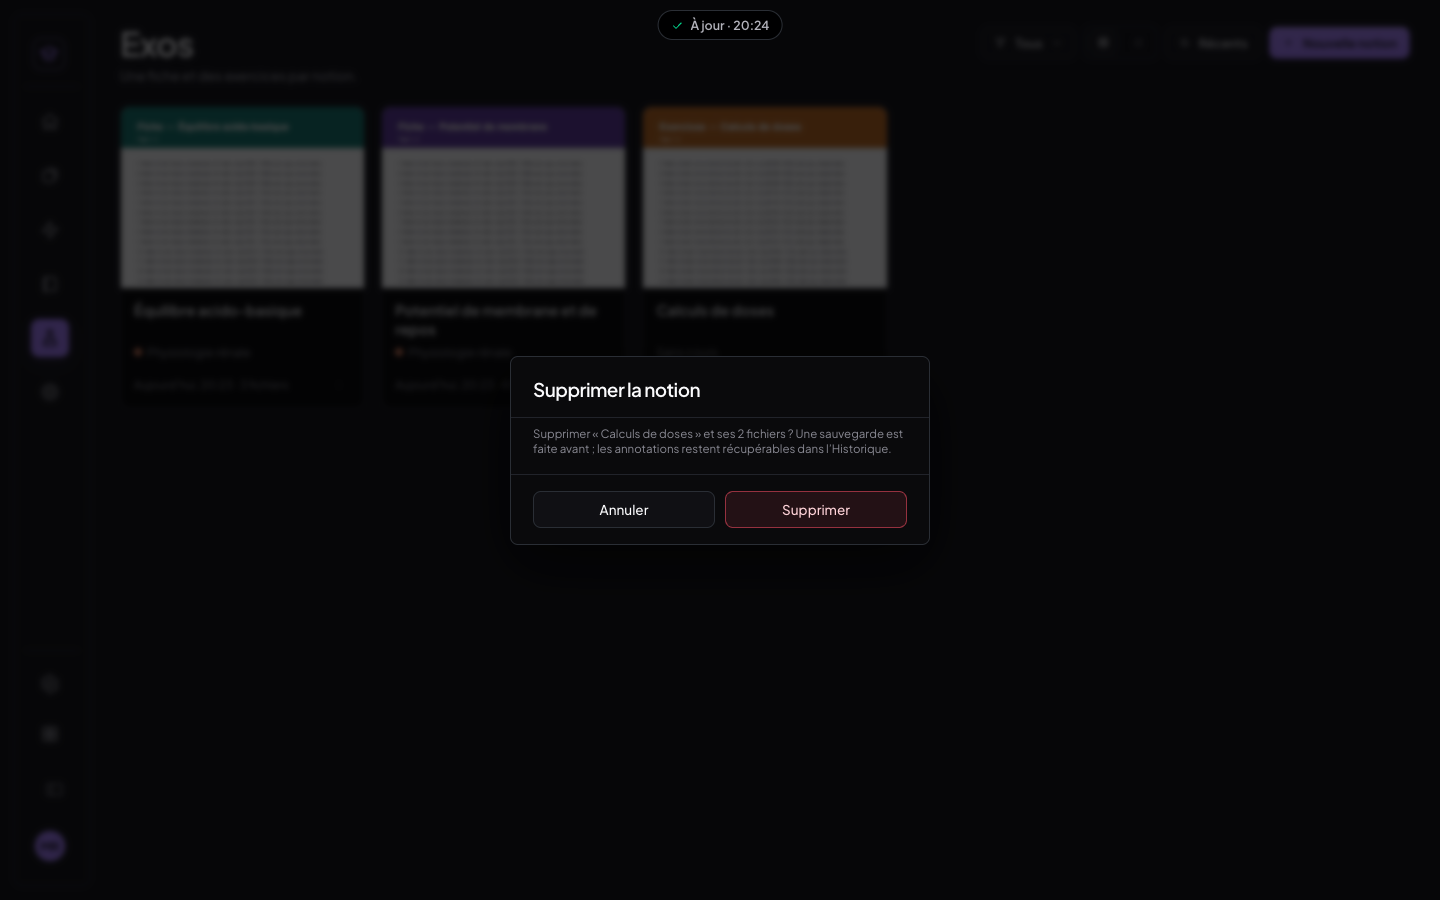
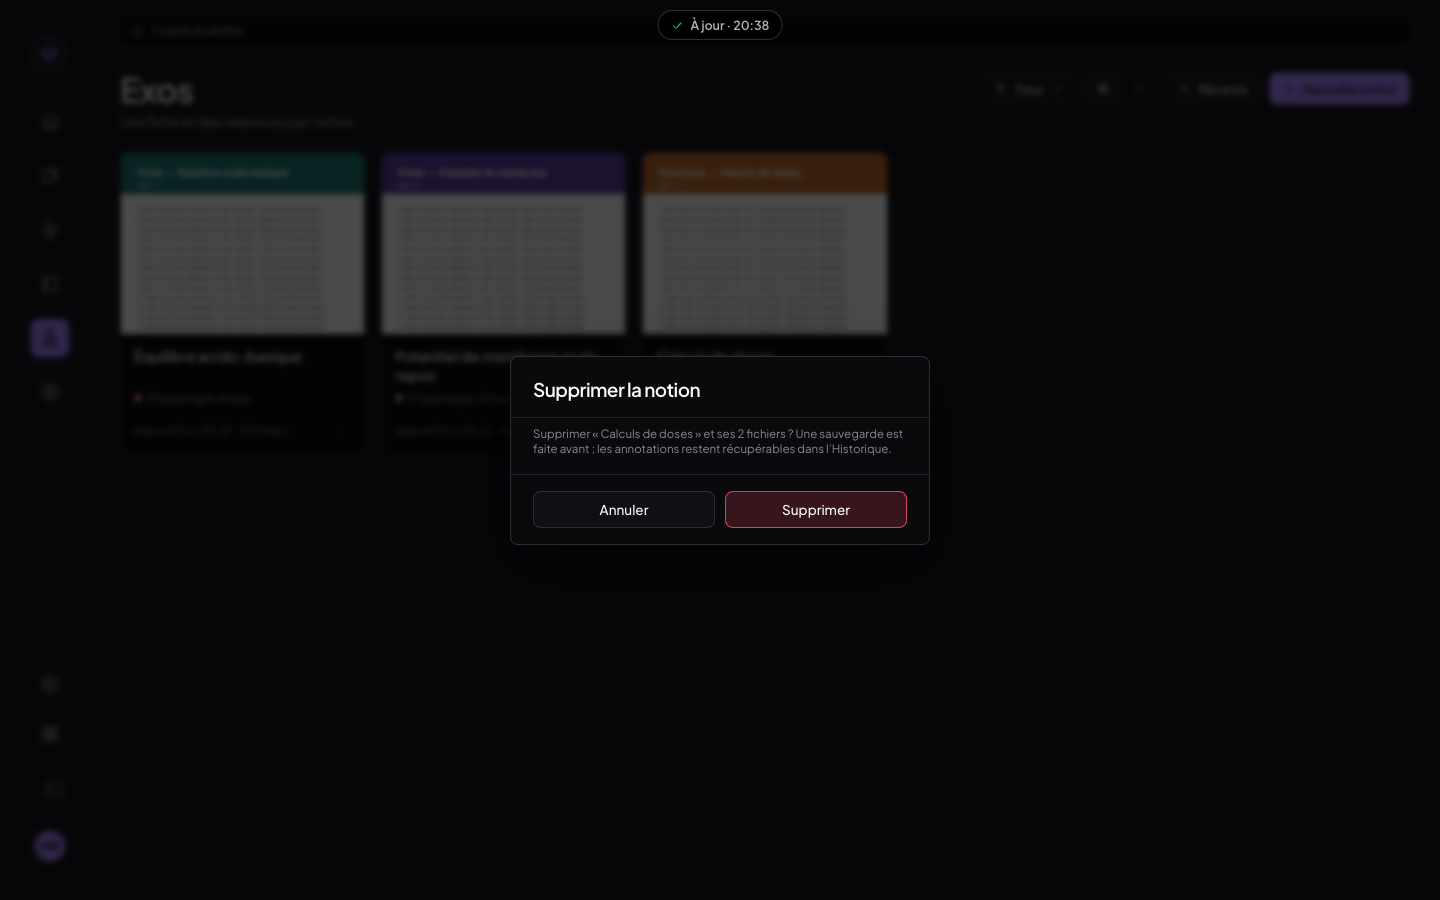
docs(medrevise): section Exos — compte rendu complété (tests, isolation, captures 3 appareils), passation

diff --git a/progression.md b/progression.md
@@ -1,28 +1,30 @@
 <!-- PASSATION:DEBUT -->
 # 🔁 Passation – My Org (MedRevise)
-_Mise à jour le 2026-11-24 (soir)_
+_Mise à jour le 2026-11-25 (soir)_
 
 ## 🎯 Objectif
 SPA Vite + React (hub + MealWeek + MedRevise), Vercel `my-org` au push sur `main`.
-/goal du 24/11 : suivi automatique des diapos pendant une transcription d'onglet (Teams) + répartition après coup — LIVRÉ.
+/goal du 25/11 : section « Exos » (notions = fiche PDF + exercices HTML/PDF) — LIVRÉ, testé, poussé.
 
 ## ✅ Fait (vérifié)
-- `src/medrevise/transcription/diapos/` : moteur unique (moteur.js), Web Worker (images de l'onglet, zone, scores, rendu des pages pdf.js sur OffscreenCanvas), pilote (suivi.js), pages du PDF (pagesCours.js), « Relier aux diapos automatiquement » (repartition.js), UI (SuiviDiapos.jsx). Piste vidéo du même partage gardée (audio.js), page des lignes = diapo reconnue (engine.js), Historique porte la session (historiqueDoc.js).
-- Banc Chrome `scripts/tests-suivi-diapos/` (vrai partage d'onglet, Chrome fenêtré hors écran, MUET) : passages 100 %, lignes 98,4 %, 0 mauvais changement même titre, délai moyen 2,66 s, aucun mot perdu ; après coup 100 % ; non-régression verte ; MealWeek identique au pixel. Compte rendu : `docs/compte-rendu-suivi-auto-diapos.md`.
+- Section Exos : `src/medrevise/exos/` (notions.js, apercus.js, EcranExos.jsx, LecteurHtml.jsx), `src/styles/exos.css` ; entrée barre latérale + carte d'accueil téléphone ; store synchronisé `exo_notion` (ajout seul, aucune migration) ; PDF dans le PdfReader (option `coursCartes`), HTML dans une iframe sandbox « allow-scripts allow-forms ».
+- Banc `scripts/tests-section-exos/tout.sh` : ordinateur, iPad, téléphone, 2 appareils, hors ligne, sécurité, non-régression, MealWeek identique → tout vert. Compte rendu `docs/compte-rendu-section-exos.md`.
+- (24/11) suivi automatique des diapos livré (docs/compte-rendu-suivi-auto-diapos.md).
 
 ## ➡ Prochaines étapes
-1. Essai en vrai sur un cours Teams dans Chrome + relancer le banc avec le vrai PDF d'histologie (`PDF_HISTO=~/Downloads/… node scripts/tests-suivi-diapos/t-suivi.mjs`) — aucun PDF d'histologie n'était dans ~/Downloads.
-2. (Toujours en attente) essais masques IA iPad/Mac, PNG texte coloré iPhone ; zoom molette SchemaEditor ; CLI Vercel + migration 20261024.
+1. Essayer la section Exos en vrai (vrais fichiers d'exos HTML) sur Mac, iPad, iPhone.
+2. Essai réel Teams + banc diapos avec le vrai PDF d'histologie (`PDF_HISTO=~/Downloads/… node scripts/tests-suivi-diapos/t-suivi.mjs`) — attendre le PDF de Yoann.
+3. (En attente) masques IA iPad/Mac, PNG texte coloré iPhone, zoom molette SchemaEditor, CLI Vercel + migration 20261024.
 
 ## 🧭 Décisions prises (ne pas rediscuter)
-- Un seul moteur (direct et après coup), OCR de l'app seulement si hésitation, images des changements LOCALES (store meta), aucune migration.
-- Seuils : SEUIL 0,50 · MARGE 0,03 · NON_RECONNU 0,50 (moteur.js#PARAMS).
+- Exos : annotations d'un fichier dans l'espace `exo:<id du fichier>` ; fichier retiré/remplacé = gardé dans `fichiersRetires` (bouton Remettre), jamais d'annotation effacée ; boîte → flashcard seulement si la notion a un cours.
+- Diapos : un seul moteur ; seuils SEUIL 0,50 · MARGE 0,03 · NON_RECONNU 0,50.
 
 ## ⚠ Pièges et préférences
-- JAMAIS de son pendant un banc (Yoann en cours) : faux Teams à −50 dB + suppressLocalAudioPlayback ; `--mute-audio` coupe AUSSI la capture.
-- Ne pas modifier src/ pendant qu'un banc tourne (Vite recharge la page et coupe la session).
-- « sync auto » commite ET pousse tout seul.
-- Français, commits conventionnels, jamais de force push.
+- JAMAIS de son pendant un banc (Chrome --mute-audio). Ne pas modifier src/ pendant qu'un banc tourne.
+- « sync auto » commite ET pousse tout seul (il a emporté le code Exos dans 00e35ac).
+- Le lecteur HTML est volontairement isolé : ne jamais ajouter allow-same-origin.
+- Français, commits conventionnels, jamais de force push ; ne jamais toucher MealWeek ni src/shared.
 <!-- PASSATION:FIN -->
 
 ## Historique des clôtures

diff --git a/docs/compte-rendu-section-exos.md b/docs/compte-rendu-section-exos.md
@@ -96,7 +96,18 @@ C'est le mode **« Exercices »** du panneau latéral du lecteur d'un cours (lib
 Feynman — avec Ajouter / Importer / Exporter. Aucune ligne n'en a été modifiée ; `t-nonreg.mjs` vérifie qu'il s'affiche comme avant.
 
 ## 7. Tests (banc `scripts/tests-section-exos/`, Chrome headless muet, faux Supabase)
-RESULTATS_BANC
+`./tout.sh` rejoue tout (25/11, **tout vert, 0 erreur console**) :
+
+| Script | Appareils | Ce qui est vérifié | Résultat |
+|---|---|---|---|
+| `t-creation.mjs` | ordinateur, iPad | entrée « Exos » (icône + infobulle), en-tête (titre, filtre, grille/liste, tri, Nouvelle notion), nom obligatoire, 3 notions (cours / sans cours / sans fiche), stockage, noms lisibles, aperçus (fiche, sinon 1ᵉʳ PDF d'exos), cartes de même largeur, pastille, date, menu ⋮, tri, filtre, liste, vue notion, retour | ✅ |
+| `t-lecteurs.mjs` | ordinateur, iPad, téléphone | fiche PDF dans le PdfReader (mêmes outils), boîte écrite → enregistrée, Historique, panneau du cours rattaché, fermer / rouvrir → annotation là ; QCM HTML (boutons, champ, correction JS, localStorage/sessionStorage en mémoire, alert en bandeau), rien d'enregistré, mémoire perdue à la fermeture ; fichier piégé bloqué, app intacte | ✅ |
+| `t-modification.mjs` | ordinateur, iPad | renommer, changer de cours, ajouter 2 exos, réordonner, renommer un exo ; exo annoté (2 boîtes) retiré → confirmation « 2 annotations », putBackup, Fichiers retirés, annotations intactes, version Historique ; Remettre ; remplacer la fiche annotée → confirmation, ancienne récupérable | ✅ |
+| `t-telephone.mjs` | téléphone | carte d'accueil, grille 2 colonnes égales sans débordement, liste, filtre, créer / modifier / supprimer au doigt, QCM au doigt, retour accueil | ✅ |
+| `t-synchro.mjs` | ordinateurs A + B | notions, fichiers et aperçus sur B ; annotation A → B et B → A ; B hors ligne : fiche, exo PDF, exo HTML ; suppression (confirmation, putBackup) → disparaît sur A puis sur B | ✅ |
+| `t-nonreg.mjs` | ordinateur | barre latérale (6 entrées, chacune s'ouvre), lecteur d'un cours + onglet « Exos » (QCM / Flashcards / Exercices / Feynman), synchro « À jour », export local avec `exo_notion`, copie GitHub (lignes + fichiers dans l'index) | ✅ |
+| `t-mealweek.mjs` | ordinateur, téléphone | build de production avant (`ffcf06f`) / après : capture identique octet pour octet, aucune erreur | ✅ |
+
 
 Captures (`docs/img/section-exos/`) :
 
@@ -117,4 +128,7 @@ Captures (`docs/img/section-exos/`) :
 - Le PdfReader sur téléphone reste celui de l'app (barres d'outils denses) ; il est ajusté à la largeur de l'écran.
 
 ## 9. Commits
-COMMITS
+- `00e35ac` *sync auto* (commit et push automatiques du dépôt) — contient tout le code de la section (`src/medrevise/exos/`,
+  `src/styles/exos.css`, branchements dans `MedReviseApp.jsx`, `ui.jsx`, `storage.js`, `MobileApp.jsx`, `MobileHome.jsx`,
+  option `coursCartes` de `PdfReader.jsx`), le banc `scripts/tests-section-exos/` et les premières captures.
+- commit `docs(medrevise): section Exos…` (ce compte rendu complété, captures finales, passation).
